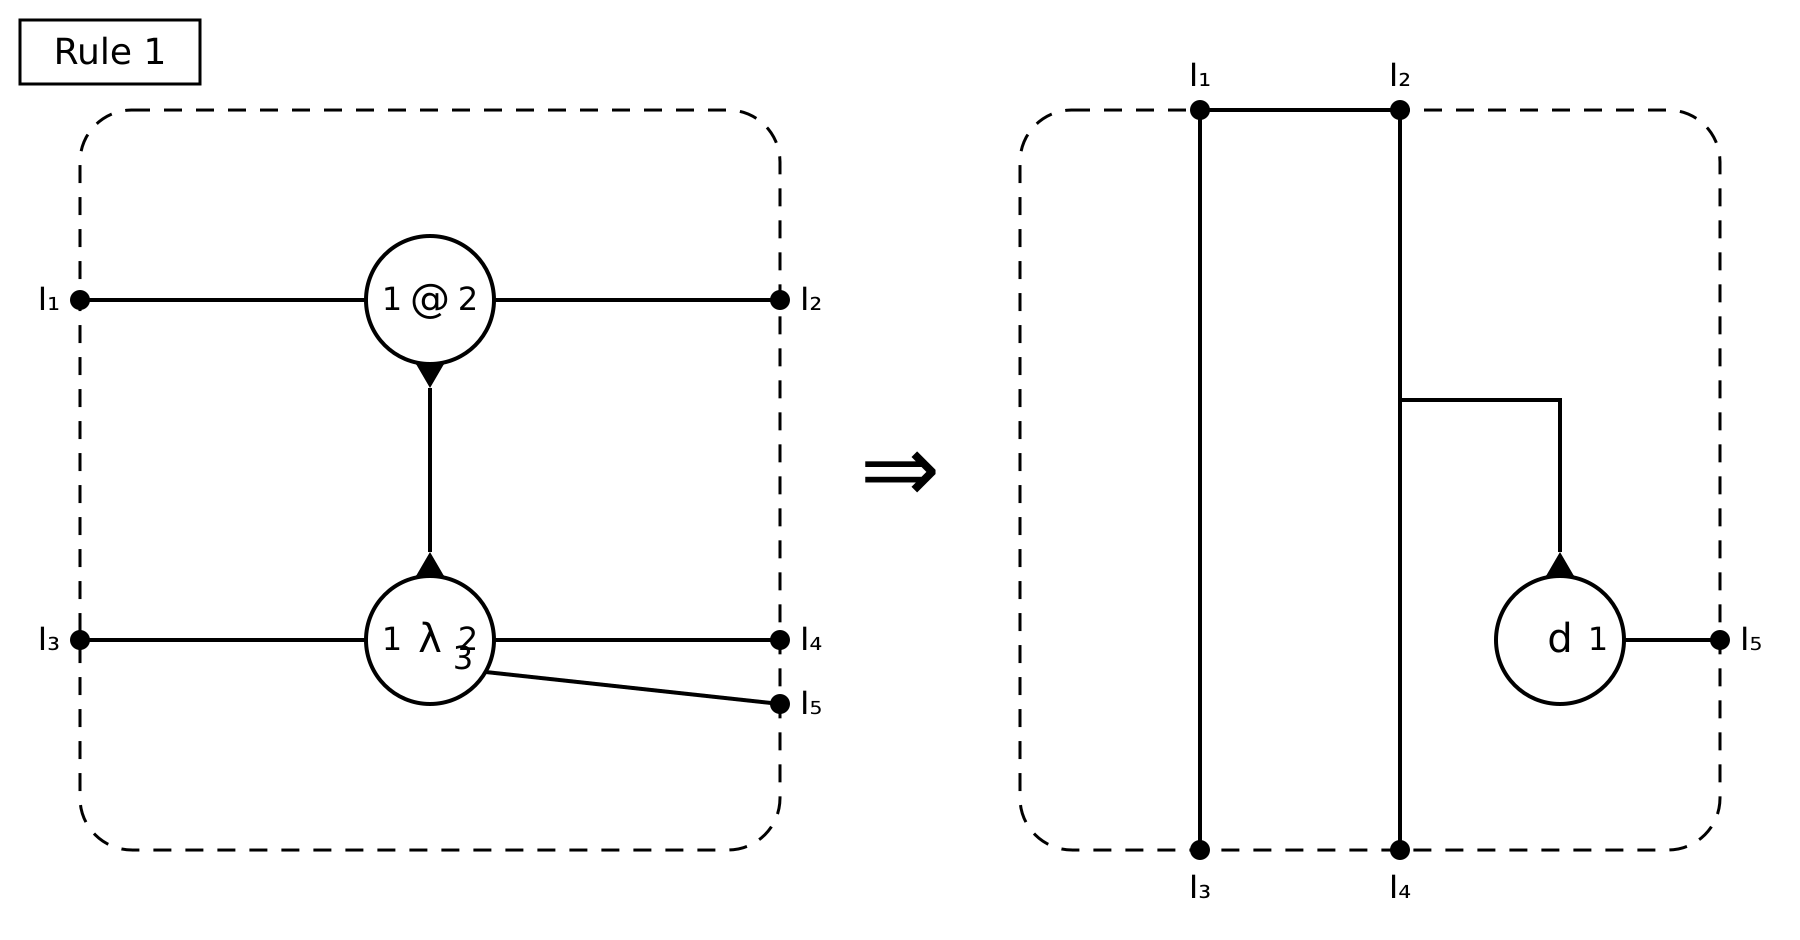
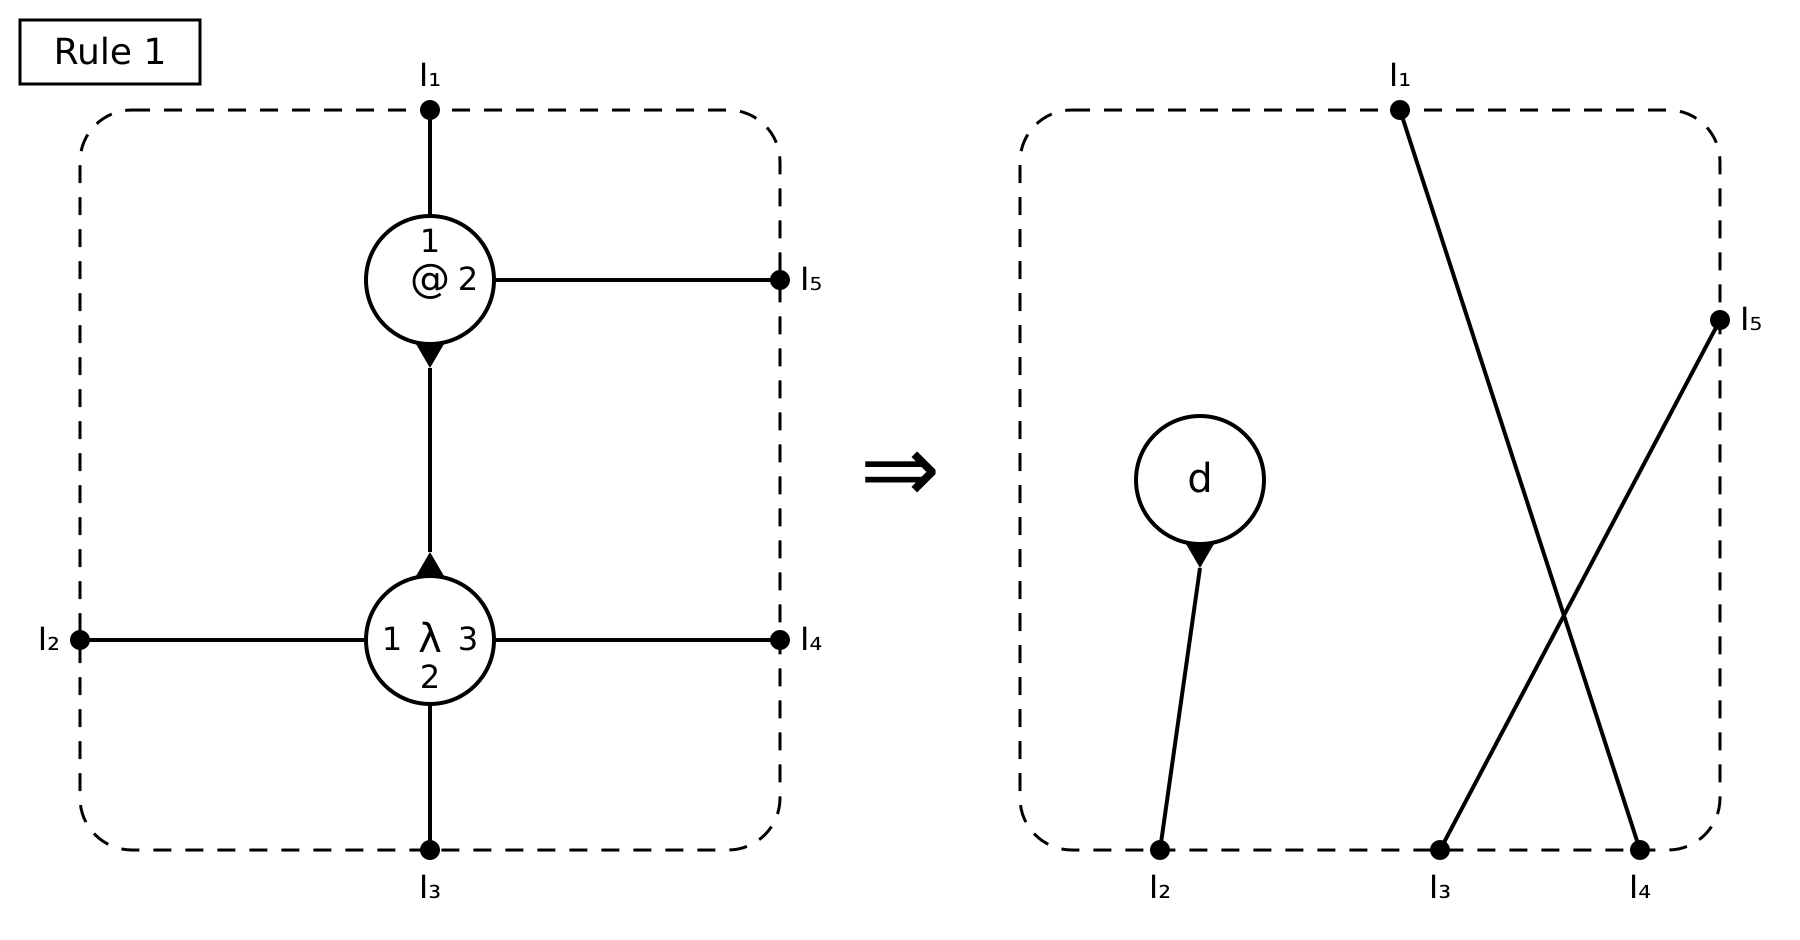
(104-S8): fix Rule 1 — LHS port mapping + RHS crossing wires (I₁—I₄, I₃—I₅)
The first render of Rule 1 was wrong on both sides. Corrected against the
upright original:

LHS: @ is 1→I₁, 2→I₅ (not 2→I₂); λ is 1→I₂, 2→I₃, 3→I₄ (not
1→I₃, 2→I₄, 3→I₅). The corrected port angles (left/bottom/right) also
remove the overlapping port numbers on λ.

RHS: was a box-like frame (top bar + two verticals + d with a jog). The
original is d (P→I₂) plus two crossing wires, I₁—I₄ and I₃—I₅.

diff --git a/YALE_by_hands/render.py b/YALE_by_hands/render.py
@@ -117,30 +117,29 @@ def wrap(t, body, w=W, h=H):
 # ── Rule definitions ──────────────────────────────────────────────────
 
 def rule_01():
-    """Rule 1:  @ ⋈ λ  ⇒  d + ∩-wire"""
+    """Rule 1:  @ ⋈ λ  ⇒  d + crossing wires (I₁—I₄, I₃—I₅)"""
     p = []
     # ── LHS ──
     p.append(subnet(*LHS))
-    a1, q1 = agent(215, 150, "@", {1: 180, 2: 0}, 90)
-    a2, q2 = agent(215, 320, "λ", {1: 180, 2: 0, 3: 30}, 270)
+    a1, q1 = agent(215, 140, "@", {1: 270, 2: 0}, 90)
+    a2, q2 = agent(215, 320, "λ", {1: 180, 2: 90, 3: 0}, 270)
     p += [a1, a2, wire([q1["P"], q2["P"]])]
-    p += [wire([q1[1], (40, 150)]),  iface(40, 150, "I₁", dx=-10, dy=5, anchor="end")]
-    p += [wire([q1[2], (390, 150)]), iface(390, 150, "I₂", dx=10, dy=5, anchor="start")]
-    p += [wire([q2[1], (40, 320)]),  iface(40, 320, "I₃", dx=-10, dy=5, anchor="end")]
-    p += [wire([q2[2], (390, 320)]), iface(390, 320, "I₄", dx=10, dy=5, anchor="start")]
-    p += [wire([q2[3], (390, 352)]), iface(390, 352, "I₅", dx=10, dy=5, anchor="start")]
+    p += [wire([q1[1], (215, 55)]),  iface(215, 55, "I₁", dy=-12)]
+    p += [wire([q1[2], (390, 140)]), iface(390, 140, "I₅", dx=10, dy=5, anchor="start")]
+    p += [wire([q2[1], (40, 320)]),  iface(40, 320, "I₂", dx=-10, dy=5, anchor="end")]
+    p += [wire([q2[2], (215, 425)]), iface(215, 425, "I₃", dy=24)]
+    p += [wire([q2[3], (390, 320)]), iface(390, 320, "I₄", dx=10, dy=5, anchor="start")]
     # ── RHS ──
     p.append(subnet(*RHS))
-    p += [wire([(600, 55), (700, 55)]),    # top bar
-          wire([(600, 55), (600, 425)]),   # left vertical
-          wire([(700, 55), (700, 425)])]   # right vertical
-    a3, q3 = agent(780, 320, "d", {1: 0}, 270)
+    a3, q3 = agent(600, 240, "d", {}, 90)
     p.append(a3)
-    p.append(wire([q3["P"], (780, 200), (700, 200)]))   # d.P → right vertical
-    p.append(wire([q3[1], (860, 320)]))                  # d.1 → I₅
-    p += [iface(600, 55, "I₁", dy=-12), iface(700, 55, "I₂", dy=-12),
-          iface(600, 425, "I₃", dy=24), iface(700, 425, "I₄", dy=24),
-          iface(860, 320, "I₅", dx=10, dy=5, anchor="start")]
+    p += [wire([q3["P"], (580, 425)]), iface(580, 425, "I₂", dy=24)]
+    p.append(wire([(700, 55), (820, 425)]))    # I₁ — I₄
+    p.append(wire([(720, 425), (860, 160)]))   # I₃ — I₅
+    p += [iface(700, 55, "I₁", dy=-12),
+          iface(860, 160, "I₅", dx=10, dy=5, anchor="start"),
+          iface(720, 425, "I₃", dy=24),
+          iface(820, 425, "I₄", dy=24)]
     p.append(imply())
     return wrap("Rule 1", "\n".join(p))
 
